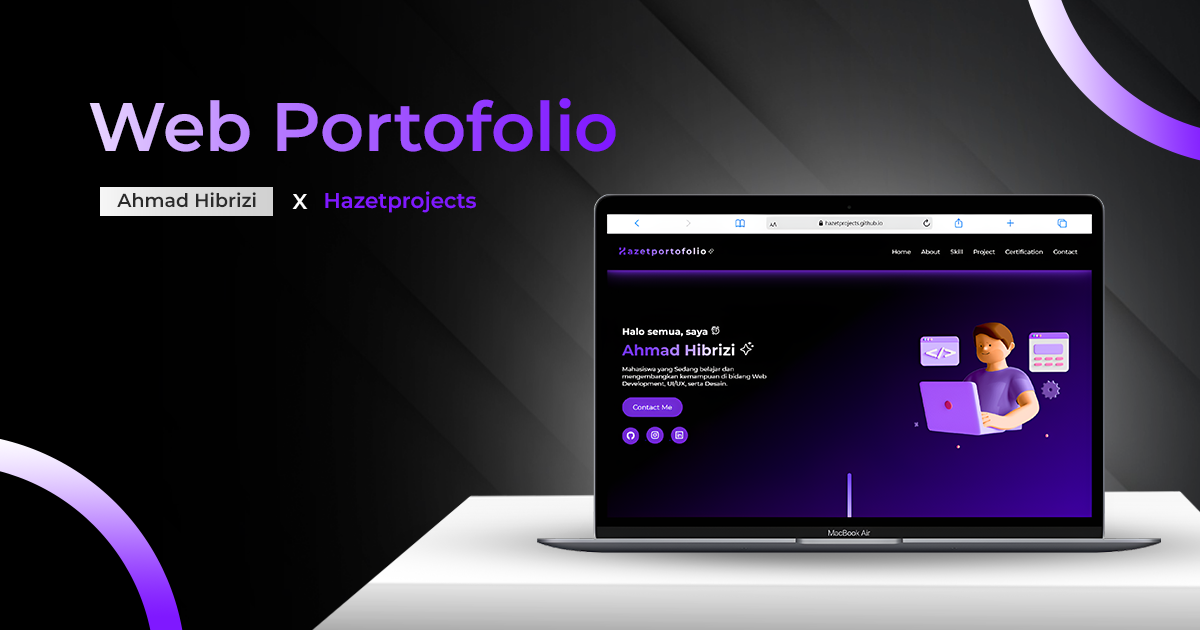
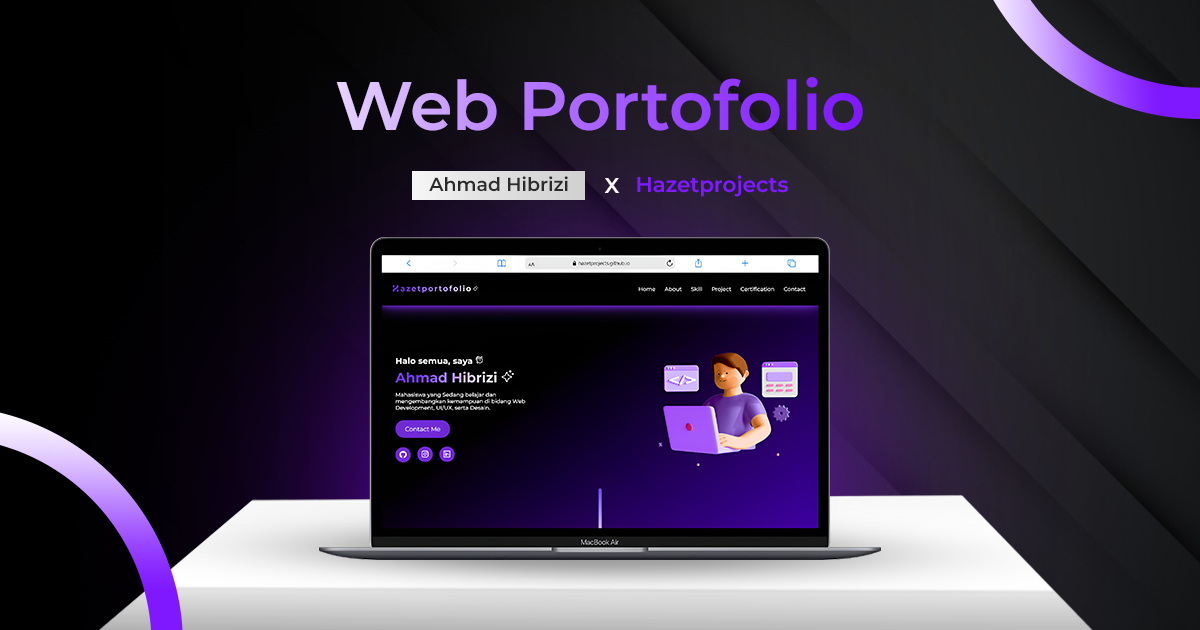
update thumbnail

diff --git a/index.html b/index.html
@@ -14,7 +14,7 @@
 
   <meta property="og:title" content="Hazet Portofolio">
   <meta property="og:description"
-    content="Hazet Portofolio : showcase karya, project, dan sertifikasi Ahmad Hibrizi dalam desain UI/UX, web development, dan desain grafis.">
+    content="Web Hazetportofolio adalah web portofolio pribadi milik Ahmad Hibrizi, yang digunakan untuk menampilkan karya, project, sertifikat, dll.">
   <meta property="og:image" content="https://hazetprojects.github.io/Hazetportofoliov1/Asset/Thumbnail%20share.png">
   <meta property="og:image:width" content="1200">
   <meta property="og:image:height" content="630">
